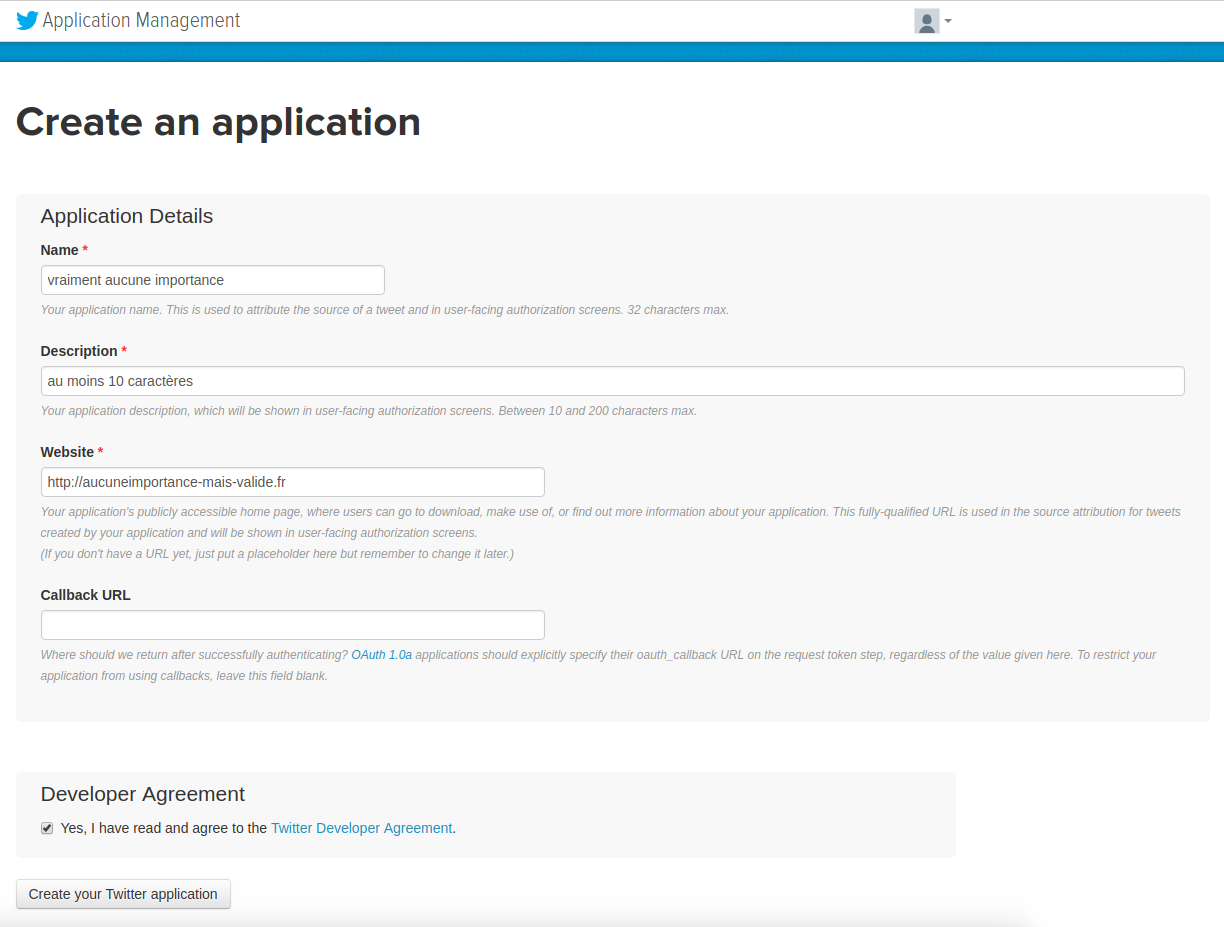
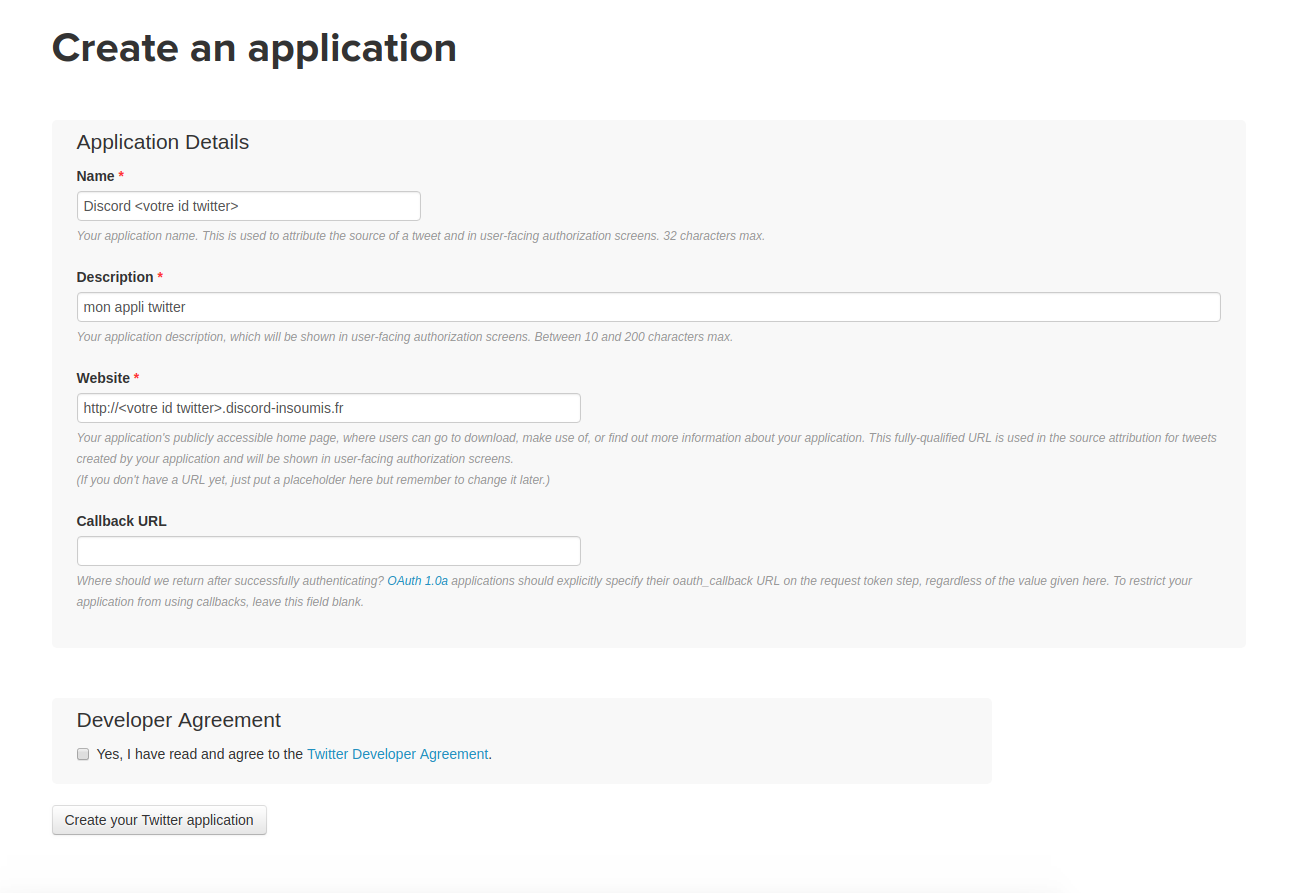
doc config

diff --git a/ditweets/templates/config.html b/ditweets/templates/config.html
@@ -91,13 +91,13 @@
   </li>
   <li>Cliquer sur <em>Create New App</em>
     <figure>
-      <img src="/static/images/createApp2.png">
+      <img src="/static/images/createApp2.png?0">
     </figure>
   </li>
   <li>Renseigner les champs :<ul>
-    <li><em>Name</em>: vous pouvez mettre ce que vous voulez.</li>
-    <li><em>Description</em>: n'importe quoi de plus de 10 caractères.</li>
-    <li><em>Website</em>: n'importe quoi sous la forme d'une adresse HTTP valide.</li>
+    <li><em>Name</em>: Discord suivi de votre identifiant twitter</li>
+    <li><em>Description</em>: mon appli twitter</li>
+    <li><em>Website</em>: Une adresse web valide par ex: http://<votre id twitter>.discord-insoumis.fr</li>
     <li><em>Callback URL</em>: laisser vide.</li>
     <li>Cocher le <em>Developer Agreement</em>.</li>
     </ul>
